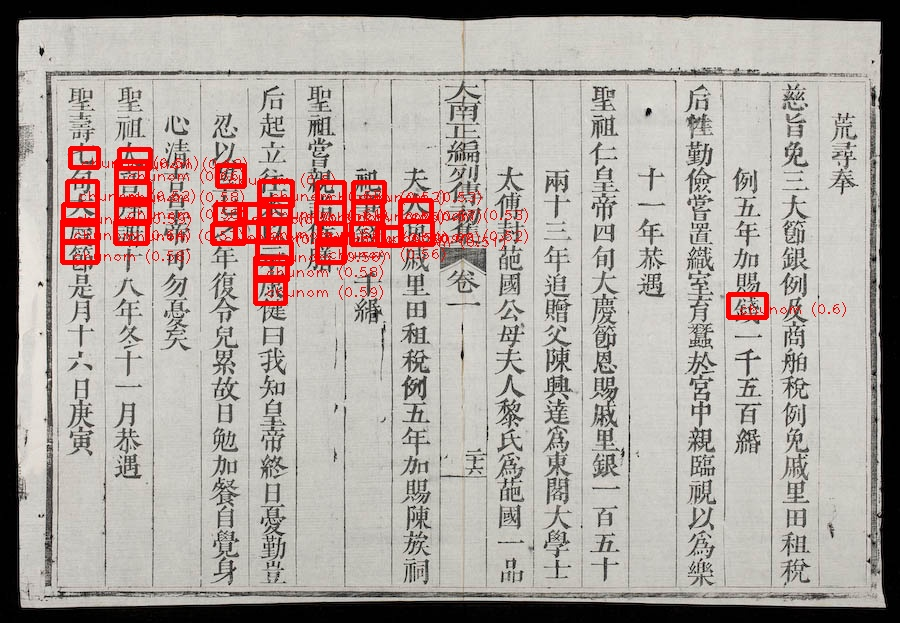
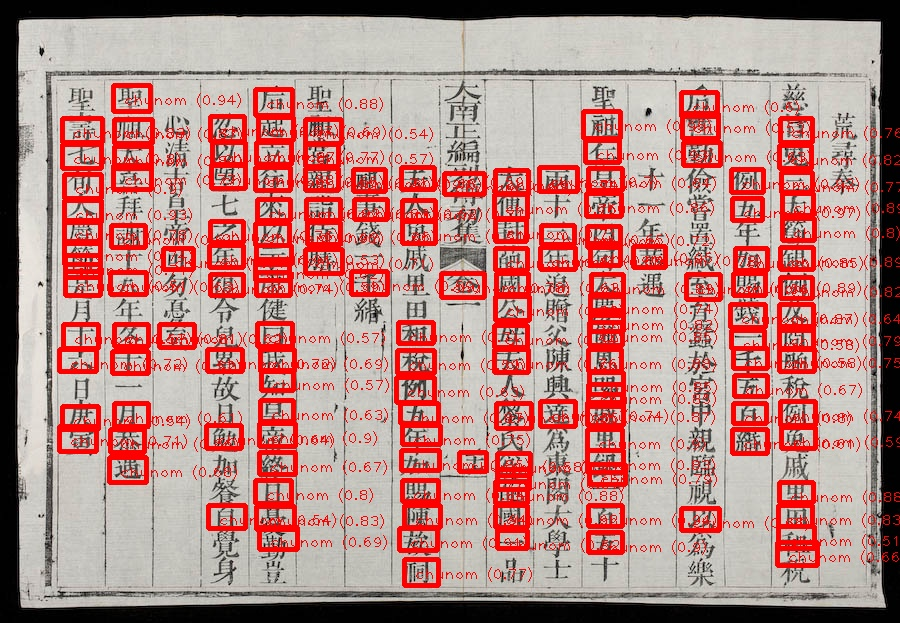
exported_model.zip sample train use in inference.py

Changed region(s): [[0.0622, 0.122, 1.0, 0.9454]]

diff --git a/mediapipe/readme.md b/mediapipe/readme.md
@@ -42,6 +42,8 @@ download zip
 
                 https://l.facebook.com/l.php?u=https%3A%2F%2Fdrive.google.com%2Ffile%2Fd%2F1QZ2q9aSIln5rUo8EFvy_VIn_VdmmFqMy%2Fview%3Fusp%3Ddrive_link%26fbclid%3DIwZXh0bgNhZW0CMTAAAR2FZc7gUEZxAcx3V1vw9yD-ie13yC-xYeiCkEQyHBLfuXs8gf0YT2uOy4U_aem_Ae5i9JOjOnptid_ZB3X8KGc8ZEn0CIx1D9JVuQt06IWuQVdvmuUQYNZudsx6zi03PThO73gcpY2_I28P_iCMzZeN&h=AT1Jirw8TCylk4OE04A9IUiVbRqbmujG4rj_v6KBfg0Gn80fdcrKBjoIBziySTz1-BB0EcIOrHuWjCYxz72f7L6okrim0alkxhH9D7iQUsxuPaIwkV8WEDrXDZhyonwjCdP9La6SqQs
 
+                https://drive.google.com/file/d/1yE-bWnkhgz720B1tbOjraTbhqCR2AZdN/view?usp=sharing
+
 extract
 
                 /work/llm/Ner_Llm_Gpt/mediapipe/train-val
@@ -68,6 +70,8 @@ extract
                 python train.py
 
 after train done: model will save to : /work/llm/Ner_Llm_Gpt/mediapipe/exported_model
+
+https://drive.google.com/file/d/11a_D5CycKh_ThB9EsDTpYgAMr7-2RL1i/view?usp=sharing 
 
                 python inference.py
 
